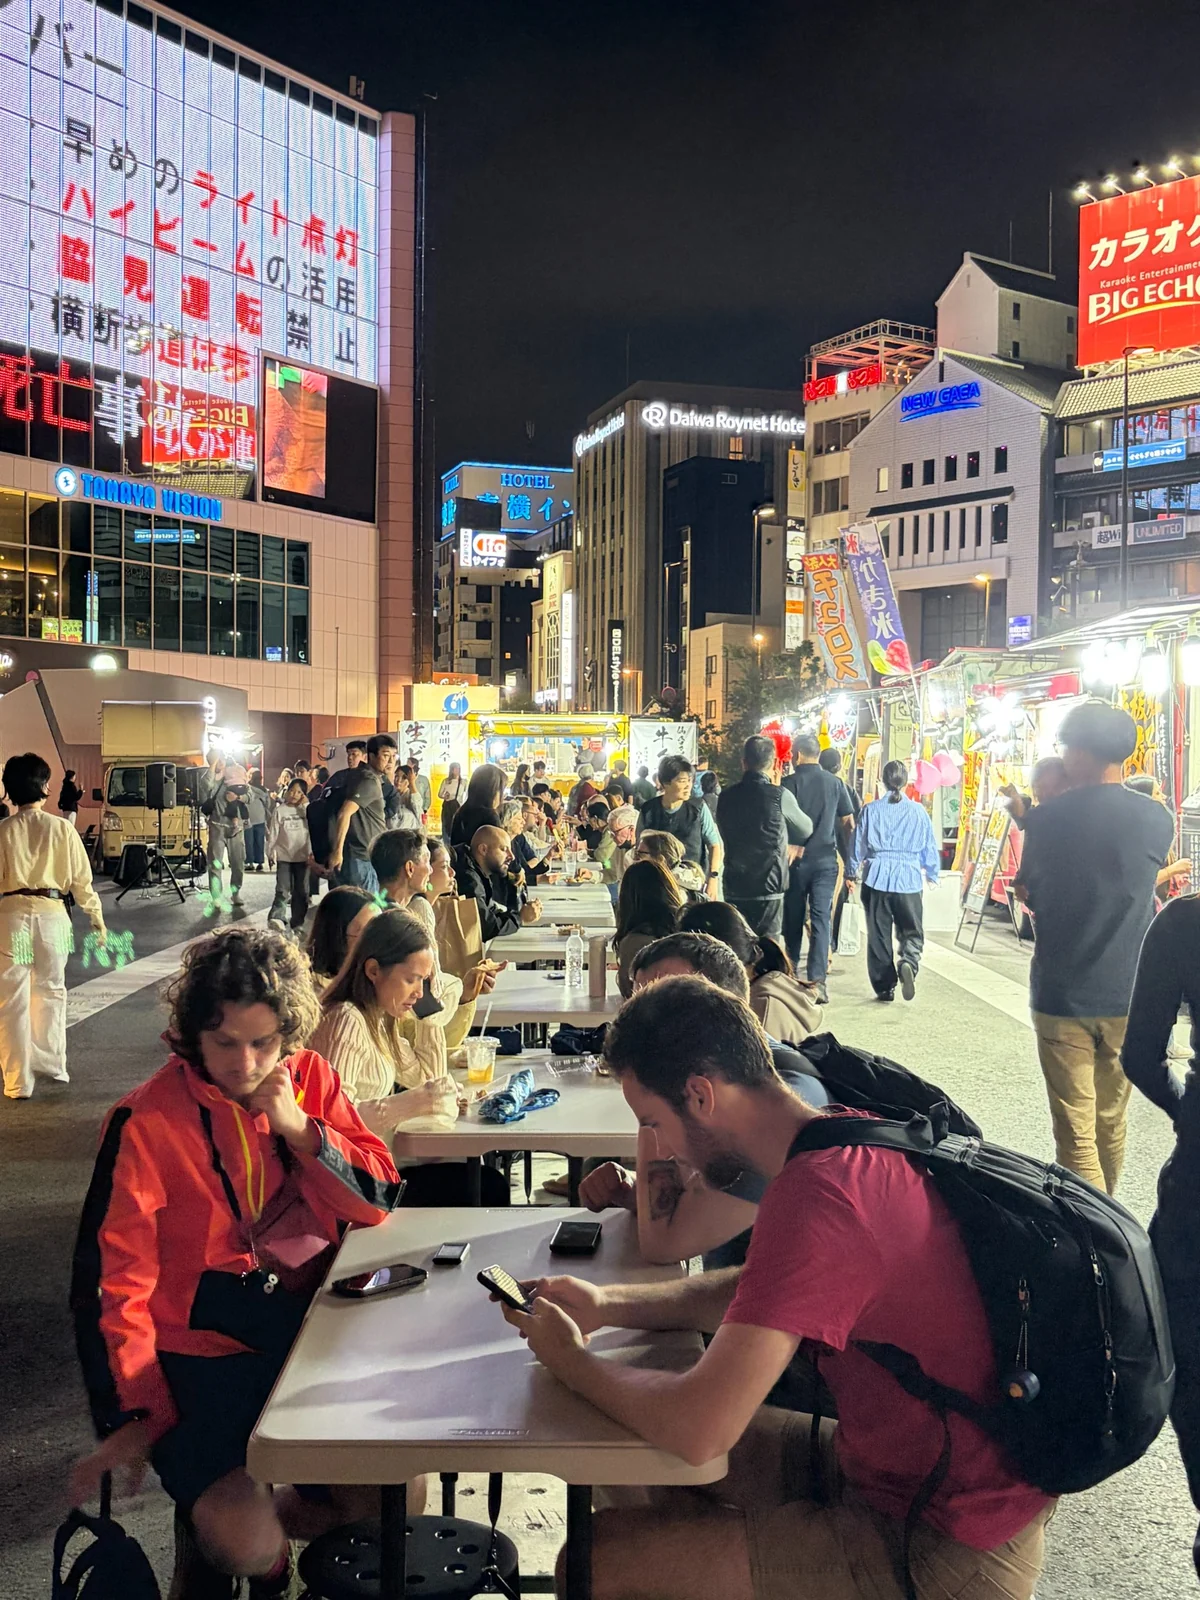
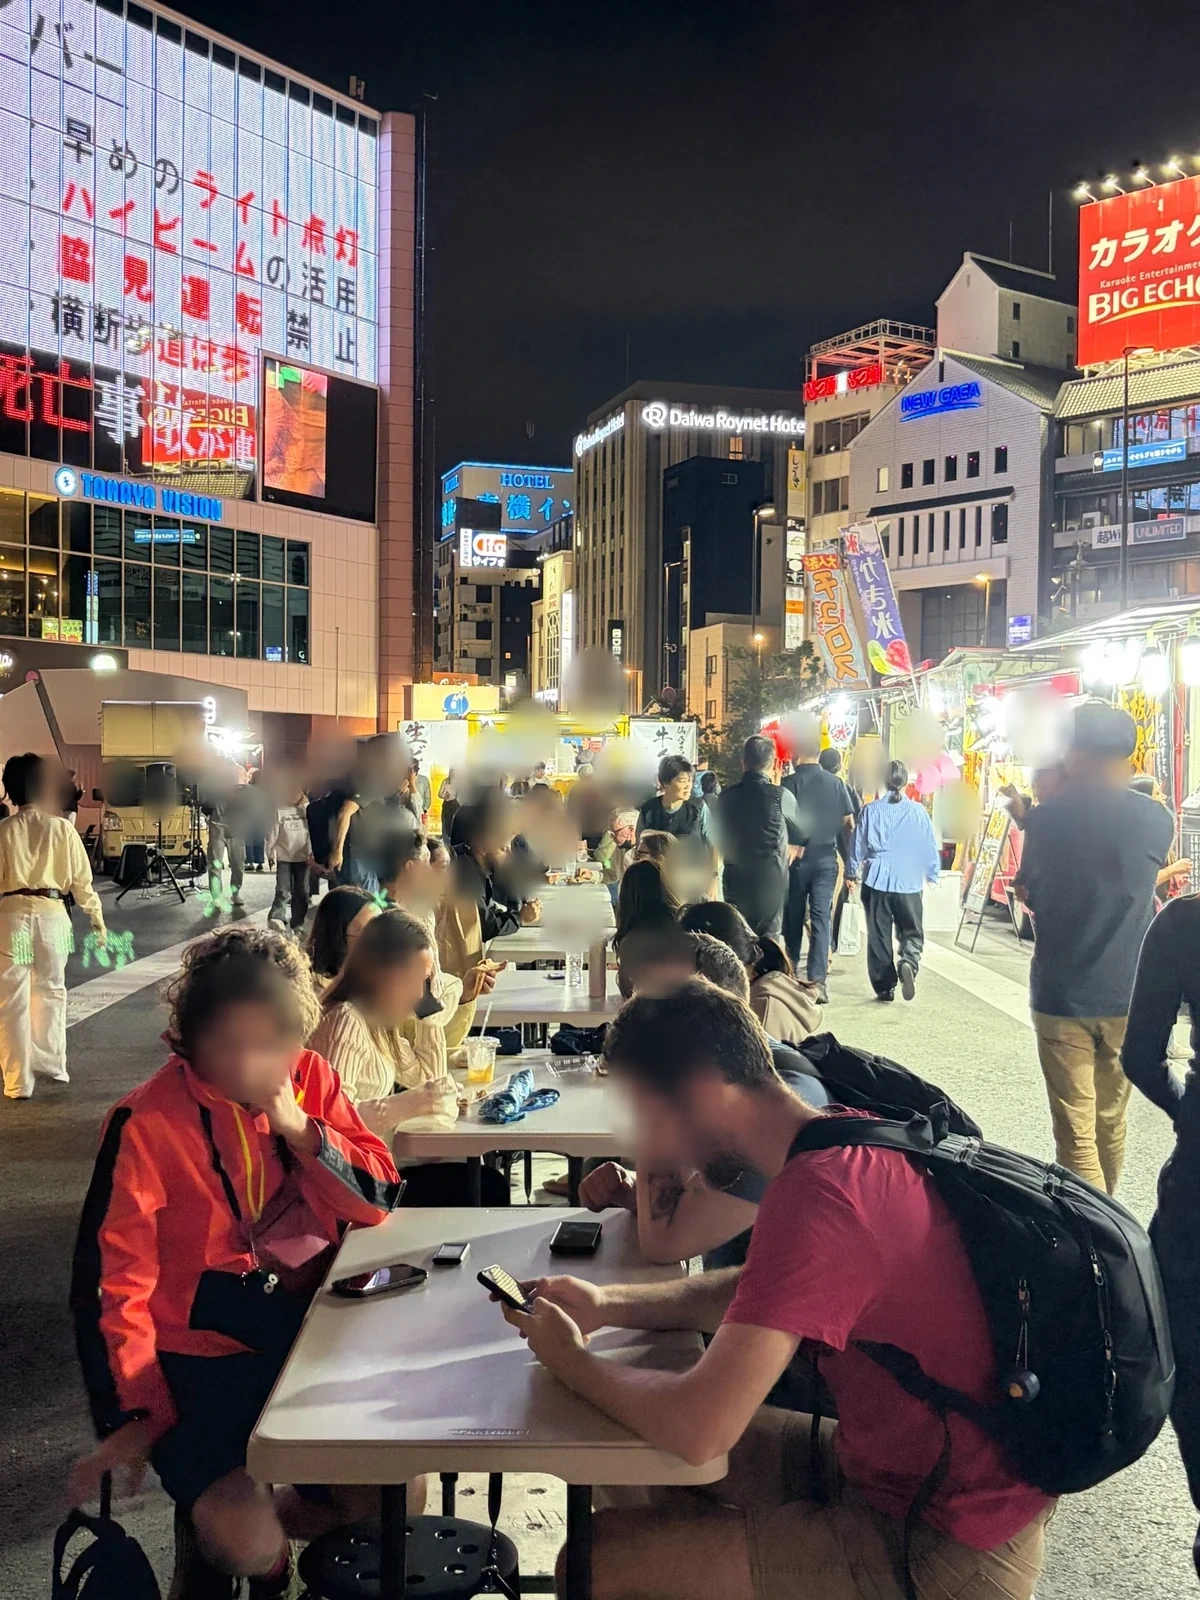
Add files via upload
出店実績ページ修正・顔ぼかし処理

diff --git a/results.html b/results.html
@@ -43,7 +43,7 @@
     <div class="section-head"><h2 id="experience-title">さまざまな会場で、<br><span>積み重ねた経験。</span></h2><p>お祭りから企業の催事まで、会場ごとの条件や来場者に合わせ、出来たてのおいしさをお届けしています。</p></div>
     <div class="record-grid">
       <article class="record-card"><div class="record-top"><span class="record-number">01</span><span class="record-icon" aria-hidden="true">🎖</span></div><p class="record-en">CEREMONY &amp; SPECIAL EVENTS</p><h3>自衛隊記念行事</h3><p>自衛隊の記念行事において、多数の出店実績があります。現場のルールや安全・衛生管理を大切に、丁寧な対応を心がけています。</p><span class="record-bottom">記念行事への出店実績</span></article>
-      <article class="record-card"><div class="record-top"><span class="record-number">02</span><span class="record-icon" aria-hidden="true">🏢</span></div><p class="record-en">COMPANY &amp; COMMERCIAL EVENTS</p><h3>企業・商業施設の催事</h3><p>MrMax大牟田でのマルシェなど、商業施設での出店や出店者の調整に携わってきました。会場条件に合わせて柔軟に対応します。</p><span class="record-bottom">催事・マルシェへの対応</span></article>
+      <article class="record-card"><div class="record-top"><span class="record-number">02</span><span class="record-icon" aria-hidden="true">🎪</span></div><p class="record-en">SMILEPARK / EVENT ACTIVITIES</p><h3>SmileParkの開催</h3><p>SmileParkの開催に関わり、キッチンカーの集約・調整、ステージ出演者の調整、会場との連絡など、イベントづくりに取り組んでいます。</p><span class="record-bottom">SmileParkの開催・調整</span></article>
       <article class="record-card"><div class="record-top"><span class="record-number">03</span><span class="record-icon" aria-hidden="true">🎪</span></div><p class="record-en">FESTIVALS &amp; LOCAL MARKETS</p><h3>地域のお祭り・マルシェ</h3><p>九州各地のイベントやマルシェへ出店。小さなお子様から大人の方まで楽しんでいただける商品をご用意しています。</p><span class="record-bottom">地域イベントでの販売</span></article>
     </div>
   </div>
